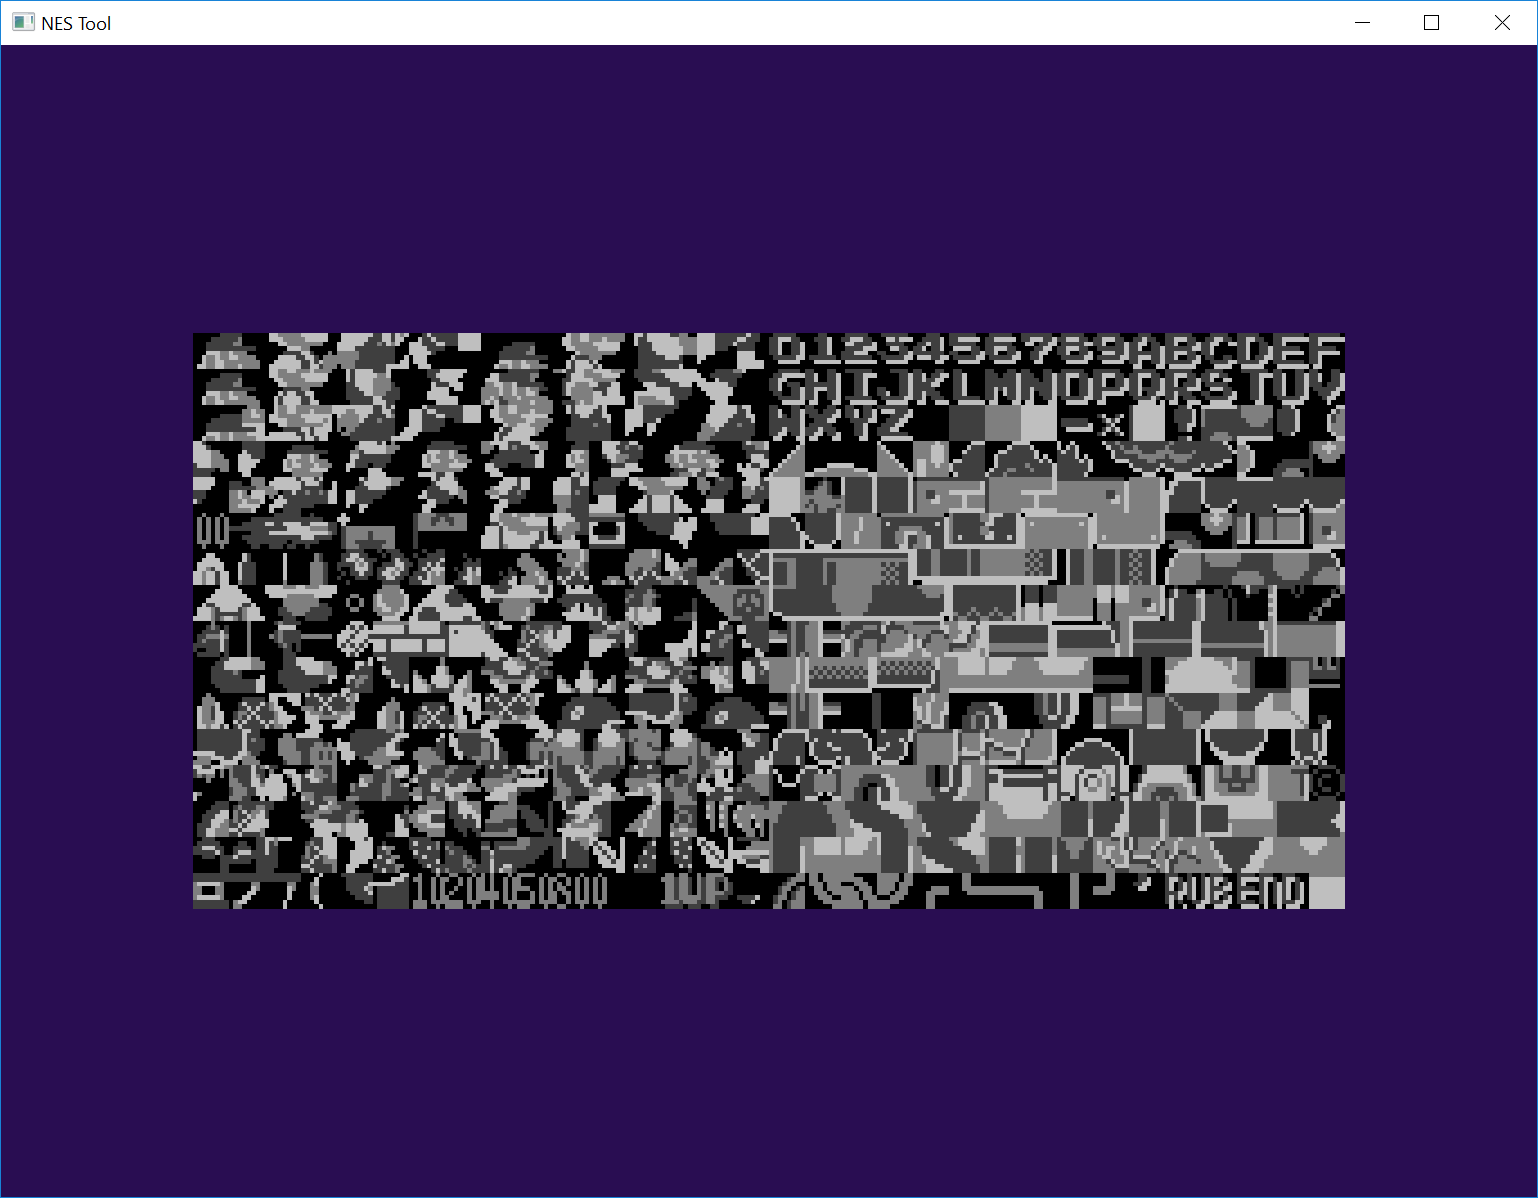
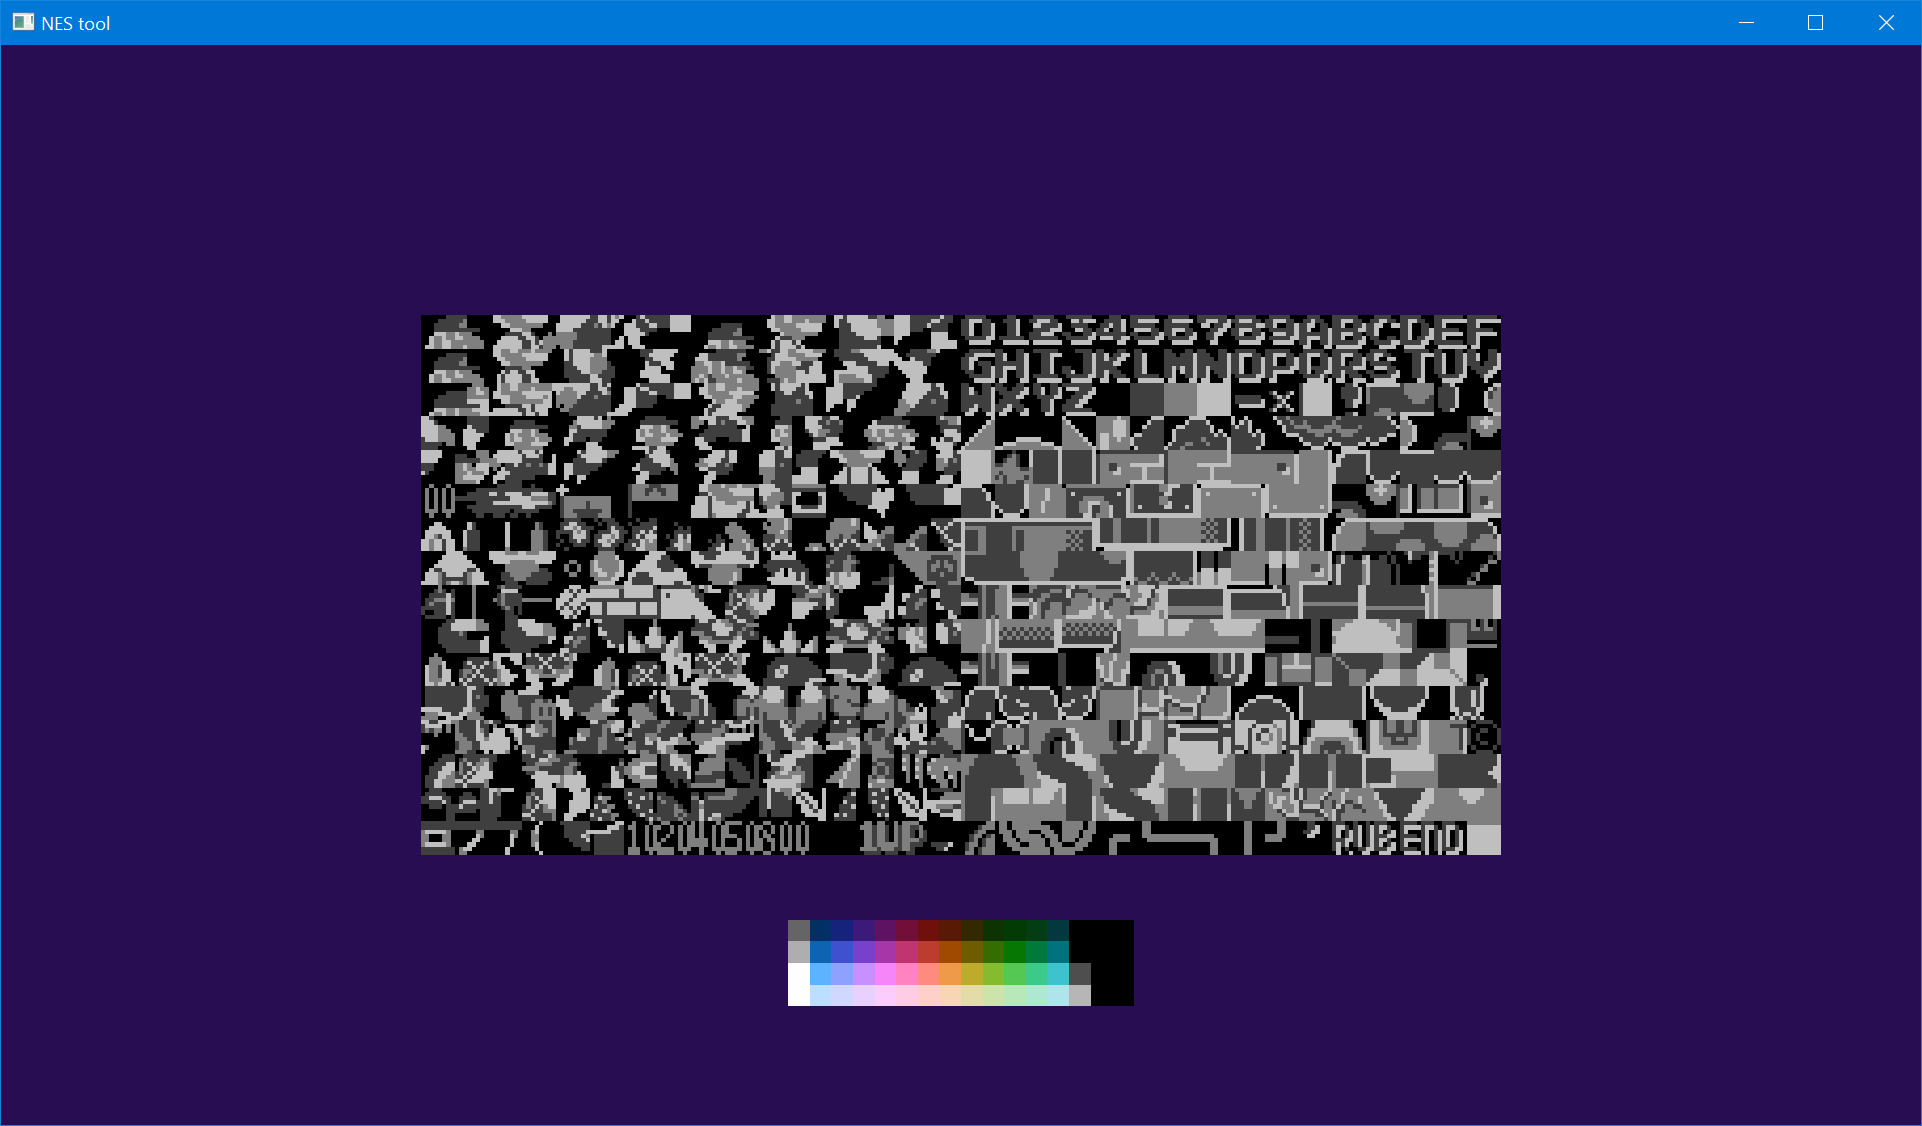
Add palette screenshot

diff --git a/src/main.rs b/src/main.rs
@@ -186,7 +186,7 @@ fn main() {
             ],
         };
 
-        let mvp = view.mvp_from_model(Matrix4::from_translation(palette.surface.position));
+        let mvp = view.mvp_from_model(Matrix4::from_translation(Vector3::new(0.0, 0.7, 0.0) /*palette.surface.position*/));
         let palette_push_constants = palette::vs::ty::Matrices {
             mvp: [
                 [ mvp.x.x, mvp.x.y, mvp.x.z, mvp.x.w ],
